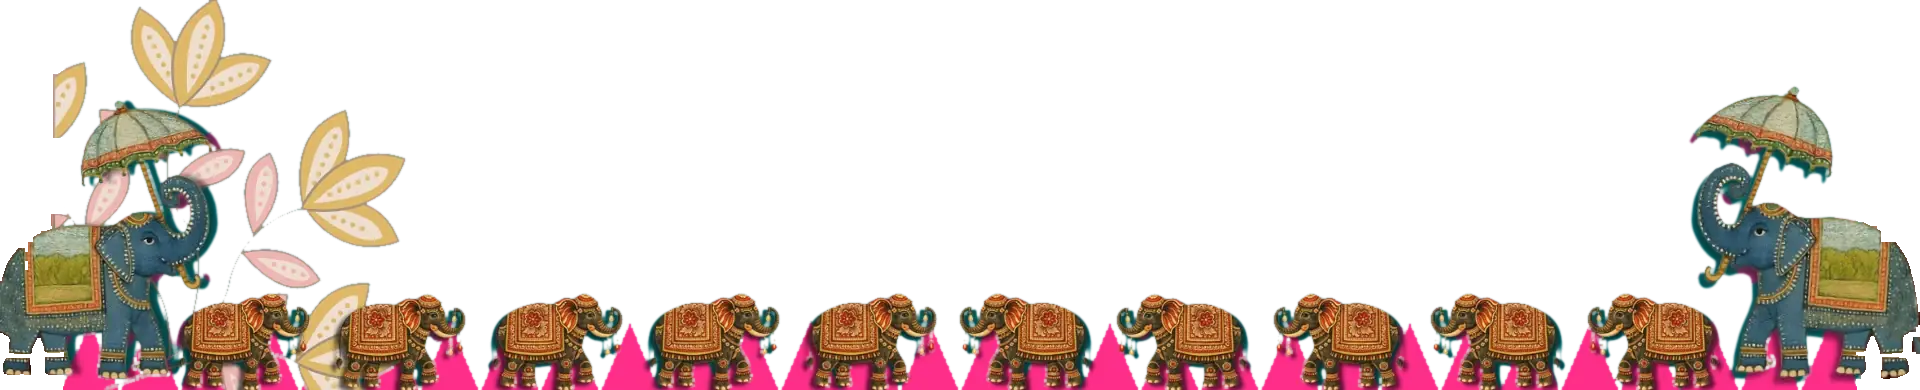
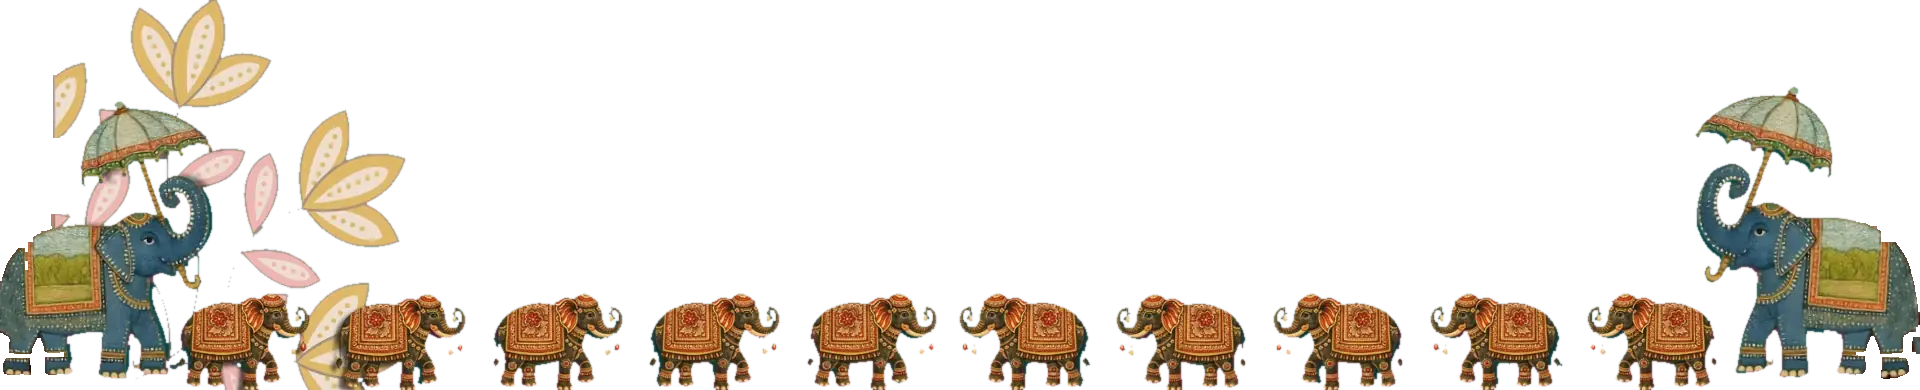
Let phones rest at the end of the looping scenes, make the music card draggable, clean the elephants' shadows
Touch screens: the contact tour and the events walk stop on their last screen however hard the flick; once the scroll
is at rest there, the next swipe on wraps round to the start. With a mouse they loop straight through as before.
The music card can be dragged anywhere and stays where it was put; on phones it shows the song and the previous button.
The sponsors elephant band loses the teal drop shadows behind the trunks and parasols.

diff --git a/components/MusicPlayer.tsx b/components/MusicPlayer.tsx
@@ -4,11 +4,11 @@
 // from its chosen moment, the next one when it ends. Browsers allow sound only after the visitor interacts, so every
 // click, tap or key press tries to start it until it plays, unless the visitor paused it (remembered). Lives in the
 // layout, so the song carries on from page to page. The "now playing" card is painted like the site's buttons; it
-// appears once the player is ready and stays away if YouTube is blocked or a video is unavailable. On a phone it is
-// a compact pill (equaliser, next, play) so it covers as little as it can.
+// appears once the player is ready and stays away if YouTube is blocked or a video is unavailable. On a phone the
+// YouTube and Spotify links drop out to keep it small. It can be dragged anywhere; the spot is kept.
 import { useEffect, useRef, useState } from "react";
 import { usePathname } from "next/navigation";
-import { Pause, Play, SkipBack, SkipForward, SpotifyLogo, YoutubeLogo } from "@phosphor-icons/react";
+import { DotsSixVertical, Pause, Play, SkipBack, SkipForward, SpotifyLogo, YoutubeLogo } from "@phosphor-icons/react";
 
 const SONGS = [
   { id: "Q-pA2JKBsE8", start: 93, title: "Pran", artist: "Ritviz" },
@@ -20,6 +20,8 @@ const SONGS = [
 ];
 const VOLUME = 60;
 const MUTED_KEY = "bgm-muted";
+const POS_KEY = "bgm-pos"; // where the visitor dragged the card to, remembered
+const EDGE = 6; // the card is kept this many px inside the screen
 
 type YTPlayer = {
   playVideo(): void;
@@ -47,6 +49,48 @@ export default function MusicPlayer() {
   // read inside the player's callbacks, which are made once
   const state = useRef({ idx: 0, playing: false, muted: false, wanted: false, ready: false });
   const controls = useRef({ next: () => {}, prev: () => {}, toggle: () => {} }); // set up with the player
+  // The card can be picked up and put anywhere: dragged by any part of it but its buttons, by mouse or finger.
+  const card = useRef<HTMLDivElement>(null);
+  const [pos, setPos] = useState<{ x: number; y: number } | null>(null);
+  const grab = useRef<{ dx: number; dy: number; id: number } | null>(null);
+  const clampPos = (x: number, y: number) => {
+    const r = card.current?.getBoundingClientRect();
+    const [w, h] = [r?.width ?? 0, r?.height ?? 0];
+    return { x: Math.min(Math.max(EDGE, x), innerWidth - w - EDGE), y: Math.min(Math.max(EDGE, y), innerHeight - h - EDGE) };
+  };
+  useEffect(() => {
+    if (!ready) return;
+    try {
+      const saved = JSON.parse(localStorage.getItem(POS_KEY) ?? "null");
+      if (saved) setPos(clampPos(saved.x, saved.y));
+    } catch {}
+    // keep it on screen when the window changes size (a phone turning, its browser bar sliding)
+    const keep = () => setPos((p) => (p ? clampPos(p.x, p.y) : p));
+    addEventListener("resize", keep);
+    return () => removeEventListener("resize", keep);
+  }, [ready]);
+  const drag = {
+    onPointerDown: (e: React.PointerEvent<HTMLDivElement>) => {
+      if ((e.target as Element).closest("a,button") || e.button !== 0) return;
+      const r = e.currentTarget.getBoundingClientRect();
+      grab.current = { dx: e.clientX - r.left, dy: e.clientY - r.top, id: e.pointerId };
+      e.currentTarget.setPointerCapture(e.pointerId);
+    },
+    onPointerMove: (e: React.PointerEvent<HTMLDivElement>) => {
+      const g = grab.current;
+      if (g && g.id === e.pointerId) setPos(clampPos(e.clientX - g.dx, e.clientY - g.dy));
+    },
+    onPointerUp: (e: React.PointerEvent<HTMLDivElement>) => {
+      if (grab.current?.id !== e.pointerId) return;
+      grab.current = null;
+      setPos((p) => {
+        try {
+          if (p) localStorage.setItem(POS_KEY, JSON.stringify(p));
+        } catch {}
+        return p;
+      });
+    },
+  };
 
   useEffect(() => {
     try {
@@ -138,7 +182,7 @@ export default function MusicPlayer() {
 
   const song = SONGS[idx];
   const q = encodeURIComponent(`${song.title} ${song.artist}`);
-  // top right: under the nav bar on inner pages (home has none)
+  // top right until moved: under the nav bar on inner pages (home has none)
   const top = pathname === "/" ? "top-3" : "top-[5.6rem]";
   const icon = "grid size-10 shrink-0 place-items-center rounded-full transition-colors hover:bg-cream/15";
 
@@ -149,9 +193,15 @@ export default function MusicPlayer() {
       </div>
       {ready && !failed && (
         <div
+          ref={card}
           data-music
-          className={`fixed right-3 z-40 flex items-center gap-0.5 rounded-full border-[3px] border-ink/60 bg-ink/45 py-0.5 backdrop-blur-md pl-3 pr-0.5 text-turmeric shadow-[inset_0_0_0_2px_rgb(242_193_78/0.7),4px_4px_0_rgb(184_22_111/0.55)] print:hidden ${top}`}
+          {...drag}
+          onPointerCancel={drag.onPointerUp}
+          style={pos ? { left: pos.x, top: pos.y } : undefined}
+          className={`fixed z-40 flex cursor-grab touch-none select-none items-center gap-0.5 rounded-full border-[3px] border-ink/60 bg-ink/45 py-0.5 pl-1 pr-0.5 text-turmeric shadow-[inset_0_0_0_2px_rgb(242_193_78/0.7),4px_4px_0_rgb(184_22_111/0.55)] backdrop-blur-md active:cursor-grabbing print:hidden ${pos ? "" : `right-3 ${top}`}`}
         >
+          {/* the grip: shows it can be moved */}
+          <DotsSixVertical size={18} weight="bold" aria-hidden="true" className="shrink-0 opacity-70" />
           {/* a little equaliser, moving while the song plays */}
           <span aria-hidden="true" className="mr-2 flex h-3 items-end gap-0.5 max-sm:mr-1">
             {[0, -0.3, -0.6].map((d) => (
@@ -162,7 +212,7 @@ export default function MusicPlayer() {
               />
             ))}
           </span>
-          <span className="mr-1 max-w-[min(34vw,14rem)] truncate font-display text-xs max-sm:hidden">
+          <span className="mr-1 max-w-[min(30vw,14rem)] truncate font-display text-xs">
             {song.title} <span className="font-sans font-normal text-cream/80">· {song.artist}</span>
           </span>
           <a className={`${icon} max-sm:hidden`} href={`https://www.youtube.com/watch?v=${song.id}`} target="_blank" rel="noopener noreferrer" aria-label={`${song.title} by ${song.artist} on YouTube`}>
@@ -171,7 +221,7 @@ export default function MusicPlayer() {
           <a className={`${icon} max-sm:hidden`} href={`https://open.spotify.com/search/${q}`} target="_blank" rel="noopener noreferrer" aria-label={`${song.title} by ${song.artist} on Spotify`}>
             <SpotifyLogo size={20} weight="fill" aria-hidden="true" />
           </a>
-          <button type="button" className={`${icon} max-sm:hidden`} onClick={() => controls.current.prev()} aria-label="Previous song">
+          <button type="button" className={icon} onClick={() => controls.current.prev()} aria-label="Previous song">
             <SkipBack size={18} weight="fill" aria-hidden="true" />
           </button>
           <button type="button" className={icon} onClick={() => controls.current.next()} aria-label="Next song">

diff --git a/components/ScrollFx.tsx b/components/ScrollFx.tsx
@@ -19,6 +19,46 @@ export function jumpScroll(y: number) {
 
 // Glides the page's scroll to y over `duration` seconds, easing in and out. lerp: 0 is what makes Lenis keep to the
 // duration: given none it falls back on its own lerp (the wheel's smoothing), which ignores the duration and races.
+// When the looping scenes (the contact tour, the events walk) wrap round to their start. With a mouse, as soon as the
+// scroll passes their end. On a touch screen a flick's momentum would carry past the wrap again and again, so there the
+// scene stops on its last screen; once the scroll has come to rest there, the next swipe on (or further scroll) wraps.
+// update(end, y) is called on every scroll with whether it is past the scene's end, and the scroll position.
+export function loopGate(wrap: () => void) {
+  const touch = matchMedia("(pointer: coarse)").matches;
+  let armed = false;
+  let restY = 0;
+  let timer = 0;
+  let fingerY = 0;
+  const go = () => {
+    if (!armed) return;
+    armed = false;
+    wrap();
+  };
+  const start = (e: TouchEvent) => (fingerY = e.touches[0].clientY);
+  const move = (e: TouchEvent) => fingerY - e.touches[0].clientY > 30 && go(); // finger up: scrolling on
+  const wheel = (e: WheelEvent) => e.deltaY > 0 && go();
+  if (touch) {
+    addEventListener("touchstart", start, { passive: true });
+    addEventListener("touchmove", move, { passive: true });
+    addEventListener("wheel", wheel, { passive: true });
+  }
+  return {
+    update(end: boolean, y: number) {
+      if (!touch) return end && wrap();
+      clearTimeout(timer);
+      if (!end) return void (armed = false);
+      if (armed && y > restY + 10) return go();
+      if (!armed) timer = window.setTimeout(() => ((armed = true), (restY = scrollY)), 350);
+    },
+    dispose() {
+      clearTimeout(timer);
+      removeEventListener("touchstart", start);
+      removeEventListener("touchmove", move);
+      removeEventListener("wheel", wheel);
+    },
+  };
+}
+
 export function glideScroll(y: number, duration: number) {
   if (lenis) lenis.scrollTo(y, { duration, easing: (t) => (1 - Math.cos(Math.PI * t)) / 2, lerp: 0 });
   else window.scrollTo({ top: y, behavior: "smooth" });

diff --git a/components/EventsStreet.tsx b/components/EventsStreet.tsx
@@ -23,7 +23,7 @@ import { X } from "@phosphor-icons/react";
 import { eventCategories, type EventCategory } from "@/data/events";
 import { melaModel } from "@/data/site";
 import EventsPanels, { Carousel, CategoryContent, tones } from "./EventsPanels";
-import { getLenis, jumpScroll } from "./ScrollFx";
+import { getLenis, jumpScroll, loopGate } from "./ScrollFx";
 import { useHold } from "./Transition";
 import { key as boneKey, soldier, strideSpeed } from "./rig";
 import { HAZE, fireworkShows, glowDot, nightSky, skyEnvironment, type Show } from "./night";
@@ -840,6 +840,10 @@ export default function EventsStreet() {
       // pin runs a screen past the loop so its end is always reachable: on a phone the address bar hides as the page
       // scrolls, the screen grows, and the page's last few dozen pixels go out of reach.
       // the loop's length in pixels, without the runway (from the trigger passed in: create() runs onUpdate before st is set)
+      const gate = loopGate(() => {
+        looped = true;
+        jump(scrollY - loop());
+      });
       const loop = (t: { start: number; end: number } = st) => ((t.end - t.start) * screens) / (screens + 1);
       const st = ScrollTrigger.create({
         trigger: sec,
@@ -854,10 +858,7 @@ export default function EventsStreet() {
           if (trip) return;
           draw(playAt(phases, progress * screens, "len"));
           // The loop ends as it starts: at its end, jump back a loop's length (keeping any overshoot) and walk on.
-          if (into >= len) {
-            looped = true;
-            jump(self.scroll() - len);
-          }
+          gate.update(into >= len, self.scroll());
         },
       });
 
@@ -896,6 +897,7 @@ export default function EventsStreet() {
         cancelAnimationFrame(raf);
         if (trip) getLenis()?.start();
         goTo.current = null;
+        gate.dispose();
         st.kill(true);
         ro.disconnect();
         mixer.stopAllAction();

diff --git a/components/PhoneDial.tsx b/components/PhoneDial.tsx
@@ -11,7 +11,7 @@ import { GLTFLoader } from "three/addons/loaders/GLTFLoader.js";
 import { MeshoptDecoder } from "three/addons/libs/meshopt_decoder.module.js";
 import { RoomEnvironment } from "three/addons/environments/RoomEnvironment.js";
 import { contacts } from "@/data/content";
-import { glideScroll, jumpScroll } from "./ScrollFx";
+import { glideScroll, jumpScroll, loopGate } from "./ScrollFx";
 import { useHold } from "./Transition";
 
 gsap.registerPlugin(ScrollTrigger);
@@ -315,6 +315,10 @@ export default function PhoneDial() {
       // dials on, round and round. The pin runs a screen past the tour so the wrap is always reachable: on a phone the
       // address bar hides as the page scrolls, the screen grows, and the page's last few dozen pixels go out of reach.
       const legs = shots.length - 1;
+      const gate = loopGate(() => {
+        calls++;
+        jumpScroll(Math.max(st!.start, scrollY - tour()));
+      });
       // the tour's length in pixels, without the runway (from the trigger passed in: create() runs onUpdate before st is set)
       const tour = (t: { start: number; end: number } = st!) => ((t.end - t.start) * legs) / (legs + 1);
       const st = matchMedia("(prefers-reduced-motion: reduce)").matches
@@ -330,10 +334,7 @@ export default function PhoneDial() {
               const len = tour(self);
               progress = Math.min(1, Math.max(0, into / len));
               draw();
-              if (into >= len) {
-                calls++;
-                jumpScroll(Math.max(self.start, self.scroll() - len));
-              }
+              gate.update(into >= len, self.scroll());
             },
           });
 
@@ -354,6 +355,7 @@ export default function PhoneDial() {
 
       cleanup = () => {
         document.removeEventListener("click", dial);
+        gate.dispose();
         st?.kill(true);
         ro.disconnect();
         scene.traverse((o) => {
